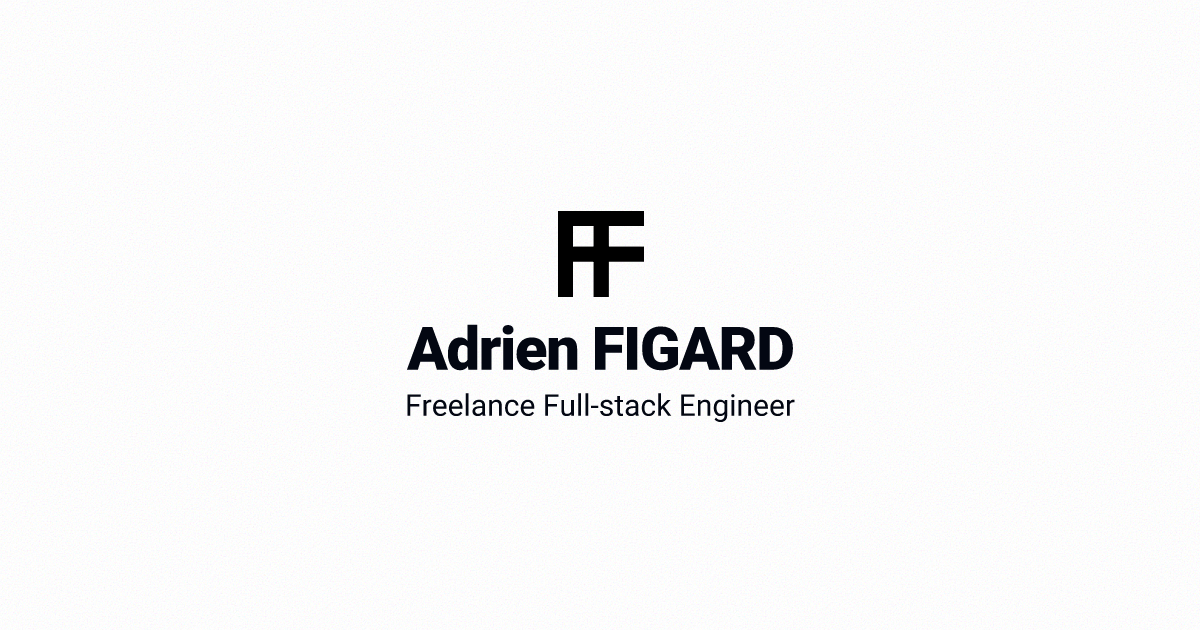
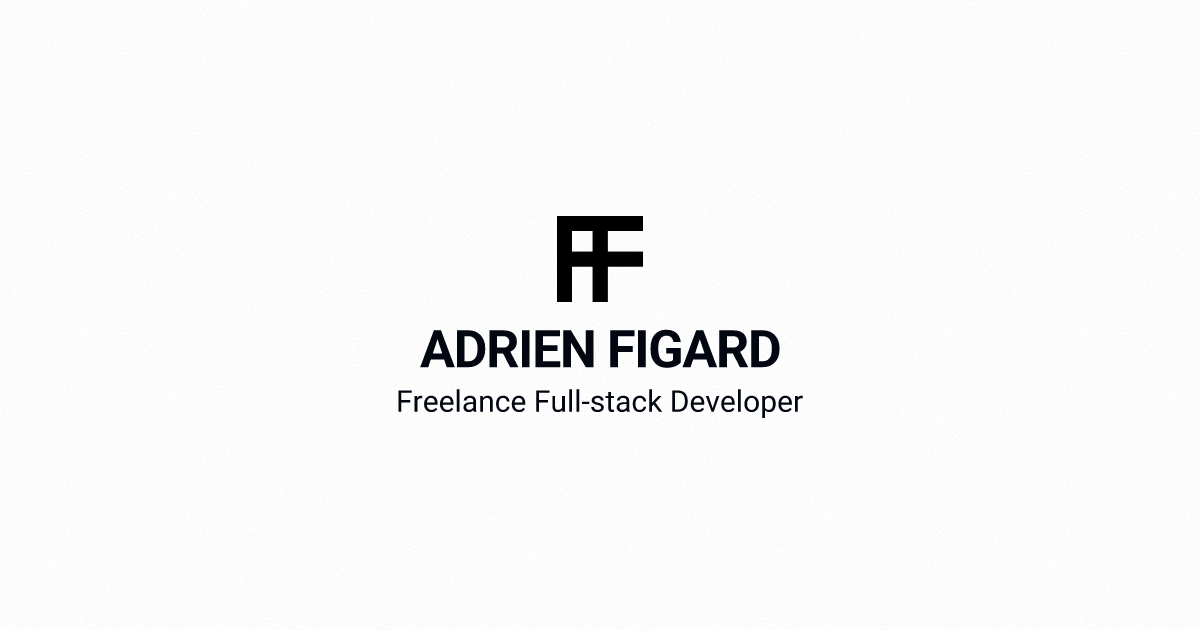
🔧 Update metadata

Changed region(s): [[0.3392, 0.5127, 0.6783, 0.6635], [0.4625, 0.3317, 0.555, 0.4825]]

diff --git a/src/app/layout.tsx b/src/app/layout.tsx
@@ -13,21 +13,21 @@ const robotoMono = Roboto_Mono({
 });
 
 export const metadata: Metadata = {
-  title: "Adrien FIGARD",
+  title: "ADRIEN FIGARD",
   description:
     "Full-stack developer helping startups and agencies build modern web apps.",
   openGraph: {
-    title: "Adrien FIGARD",
+    title: "ADRIEN FIGARD",
     description:
       "Full-stack developer helping startups and agencies build modern web apps.",
     url: "https://afigard.github.io",
-    siteName: "Adrien Figard Portfolio",
+    siteName: "ADRIEN Figard Portfolio",
     images: [
       {
         url: "https://afigard.github.io/openGraph.png",
         width: 1200,
         height: 630,
-        alt: "Adrien FIGARD",
+        alt: "ADRIEN FIGARD",
       },
     ],
     type: "website",
